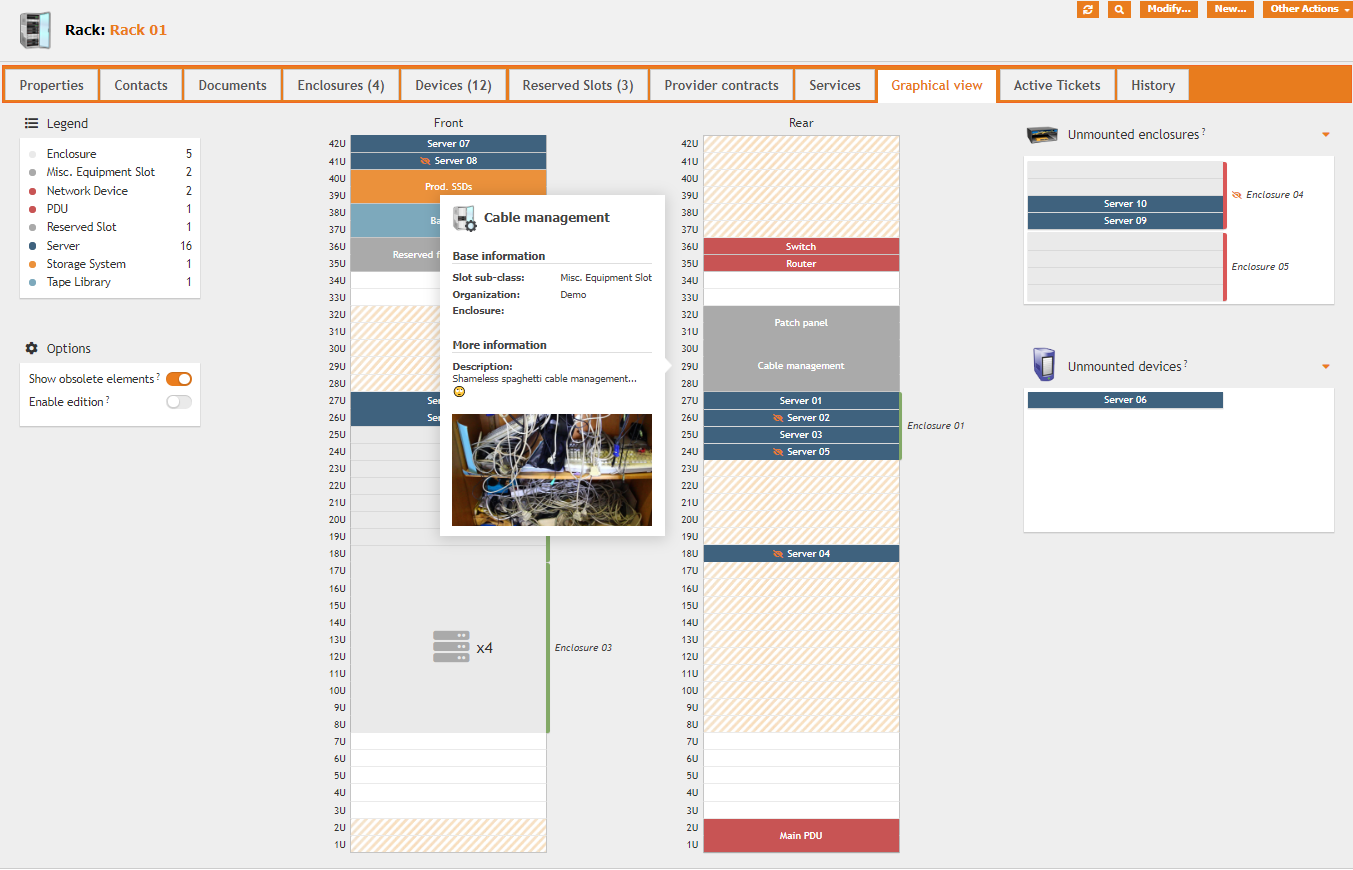
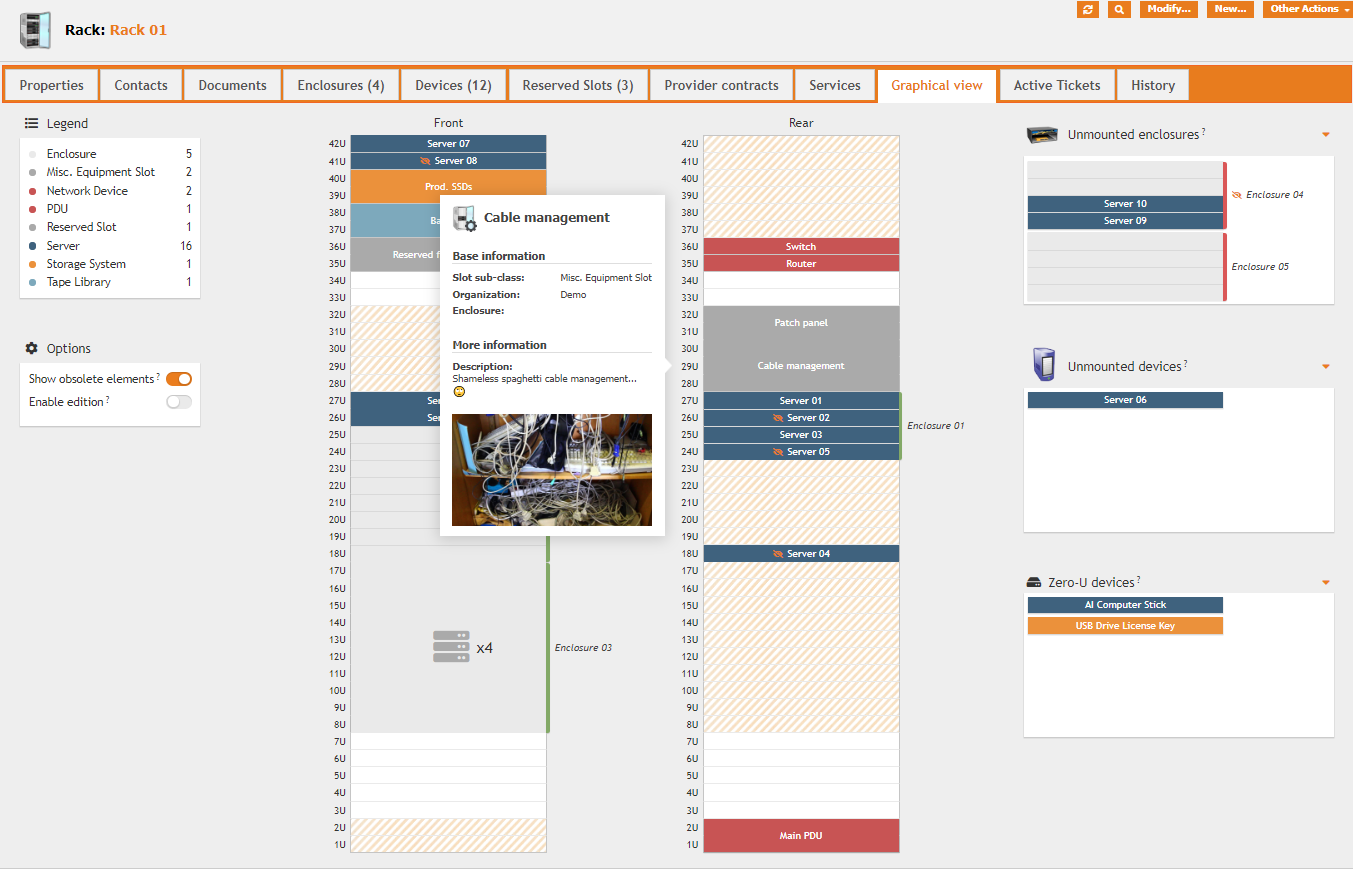
:memo: Update documentation

Changed region(s): [[0.745, 0.6517, 0.9002, 0.7448]]

diff --git a/molkobain-datacenter-view/README.md b/molkobain-datacenter-view/README.md
@@ -33,9 +33,10 @@ Identify specific devices type by hovering the legend
 * [Audit rules](#audit-rules)
 * [Reserved slots](#reserved-slots)
 * [Custom classes](#custom-classes)
+* [Zero-U devices](#zero-u-devices)
 * [Misc. options](#misc-options)
 
-_Paid version will be available end of June '19 on [Molkobain I/O](https://www.molkobain.com/product-category/itop-extensions/)._
+👋 _Paid version is now available on [Molkobain I/O](https://www.molkobain.com/product/datacenter-view-extended/)!_
 
 #### Drag & Drop
 Drag & drop elements in the graphical view to easily set their position instead of manually editing each elements!
@@ -74,6 +75,11 @@ Two new object classes to better describe your racks and enclosures:
 
 #### Custom classes
 You have some custom classes _(not derivating from DatacenterDevice)_ that you would like to use in racks and enclosures? No problem! Just register them in the `custom_device_classes` config. parameter, make sure they have the required attributes _(see documentation)_ and they will automatically appear. 👌
+
+#### Zero-U devices
+Manage devices with non standard size / positioning such as USB drives, vertical PDUs, non rackable devices, ... Just mark them as such to make them appaer in the bottom-right panel of their host, easy as pie!
+
+![Pro features - Zero-U devices](docs/mdv-profeatures-zerou-01.png)
 
 #### Misc. options
 * Us order: Reverse Us order per rack / enclosure to fit your set-up
